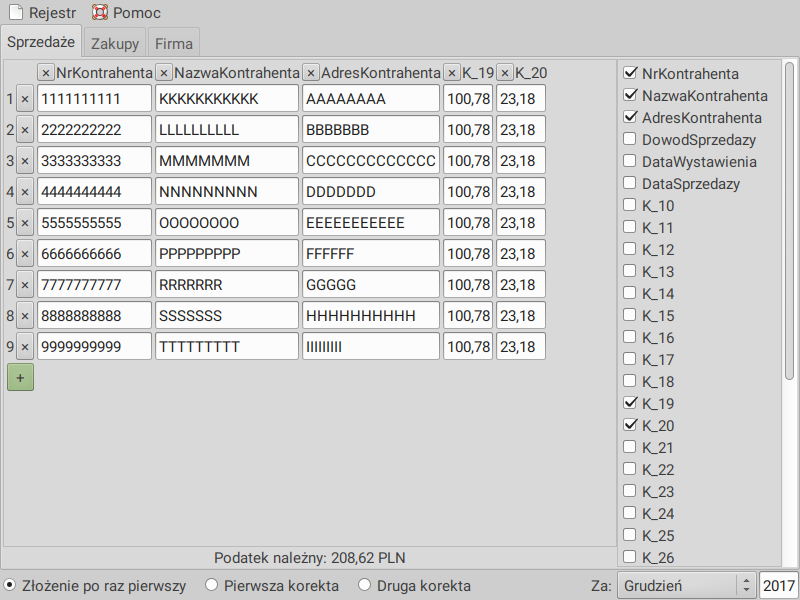
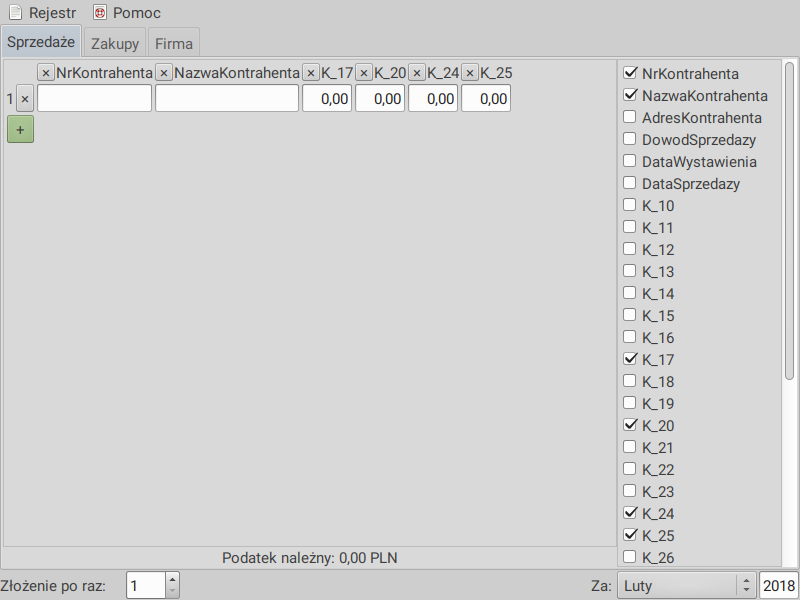
Obsługa JPK_VAT(3)

diff --git a/src/gui.c b/src/gui.c
@@ -965,44 +965,28 @@ static GtkWidget* create_date_menu(JPK *jpk) {
     return hbox_date;
 }
 
-static void aim_first_callback(GtkWidget* widget, gpointer data) {
+static void aim_callback(GtkSpinButton* widget, gpointer data) {
+    int value = gtk_spin_button_get_value_as_int(widget);
     JPK* jpk = (JPK*)data;
-    jpk->header->celZlozenia = 0;
-}
-
-static void aim_second_callback(GtkWidget* widget, gpointer data) {
-    JPK* jpk = (JPK*)data;
-    jpk->header->celZlozenia = 1;
-}
-
-static void aim_third_callback(GtkWidget* widget, gpointer data) {
-    JPK* jpk = (JPK*)data;
-    jpk->header->celZlozenia = 2;
+    jpk->header->celZlozenia = value - 1;
 }
 
 static GtkWidget* create_box_bottom(JPK* jpk) {
     GtkWidget* hbox_bottom = gtk_hbox_new(0, 15);
-    GtkWidget* radio_aim_gr = gtk_radio_button_new_with_label(NULL,
+/*    GtkWidget* radio_aim_gr = gtk_radio_button_new_with_label(NULL,
             "Złożenie po raz pierwszy");
-    if (jpk->header->celZlozenia == 1)
+    if (jpk->header->celZlozenia == 0)
         gtk_toggle_button_set_active(GTK_TOGGLE_BUTTON(radio_aim_gr), 1);
     g_signal_connect(radio_aim_gr, "toggled", G_CALLBACK(aim_first_callback), jpk);
     gtk_box_pack_start(GTK_BOX(hbox_bottom), radio_aim_gr, 0, 1, 0);
-
-    GtkWidget* radio_aim = gtk_radio_button_new_with_label(gtk_radio_button_get_group(
-          GTK_RADIO_BUTTON(radio_aim_gr)), "Pierwsza korekta");
-    if (jpk->header->celZlozenia == 2)
-        gtk_toggle_button_set_active(GTK_TOGGLE_BUTTON(radio_aim), 1);
-    g_signal_connect(radio_aim_gr, "toggled", G_CALLBACK(aim_second_callback), jpk);
-    gtk_box_pack_start(GTK_BOX(hbox_bottom), radio_aim, 0, 1, 0);
-
-    radio_aim = gtk_radio_button_new_with_label(gtk_radio_button_get_group(
-          GTK_RADIO_BUTTON(radio_aim_gr)), "Druga korekta");
-    if (jpk->header->celZlozenia == 3)
-        gtk_toggle_button_set_active(GTK_TOGGLE_BUTTON(radio_aim), 1);
-    g_signal_connect(radio_aim_gr, "toggled", G_CALLBACK(aim_third_callback), jpk);
-
-    gtk_box_pack_start(GTK_BOX(hbox_bottom), radio_aim, 0, 1, 0);
+*/
+    GtkWidget *label = gtk_label_new("Złożenie po raz: ");
+    gtk_box_pack_start(GTK_BOX(hbox_bottom), label, 0, 1, 0);
+    GtkAdjustment* spin_adjust = GTK_ADJUSTMENT(gtk_adjustment_new(0, 1, 999, 1, 0, 0));
+    GtkWidget* spinButton = gtk_spin_button_new(spin_adjust, 1, 0);
+    gtk_spin_button_set_value(GTK_SPIN_BUTTON(spinButton), (double)(jpk->header->celZlozenia + 1));
+    g_signal_connect(spinButton, "value-changed", G_CALLBACK(aim_callback), jpk);
+    gtk_box_pack_start(GTK_BOX(hbox_bottom), spinButton, 0, 1, 0);
 
     gtk_box_pack_start(GTK_BOX(hbox_bottom), create_date_menu(jpk), 1, 1, 0);
     return hbox_bottom;
